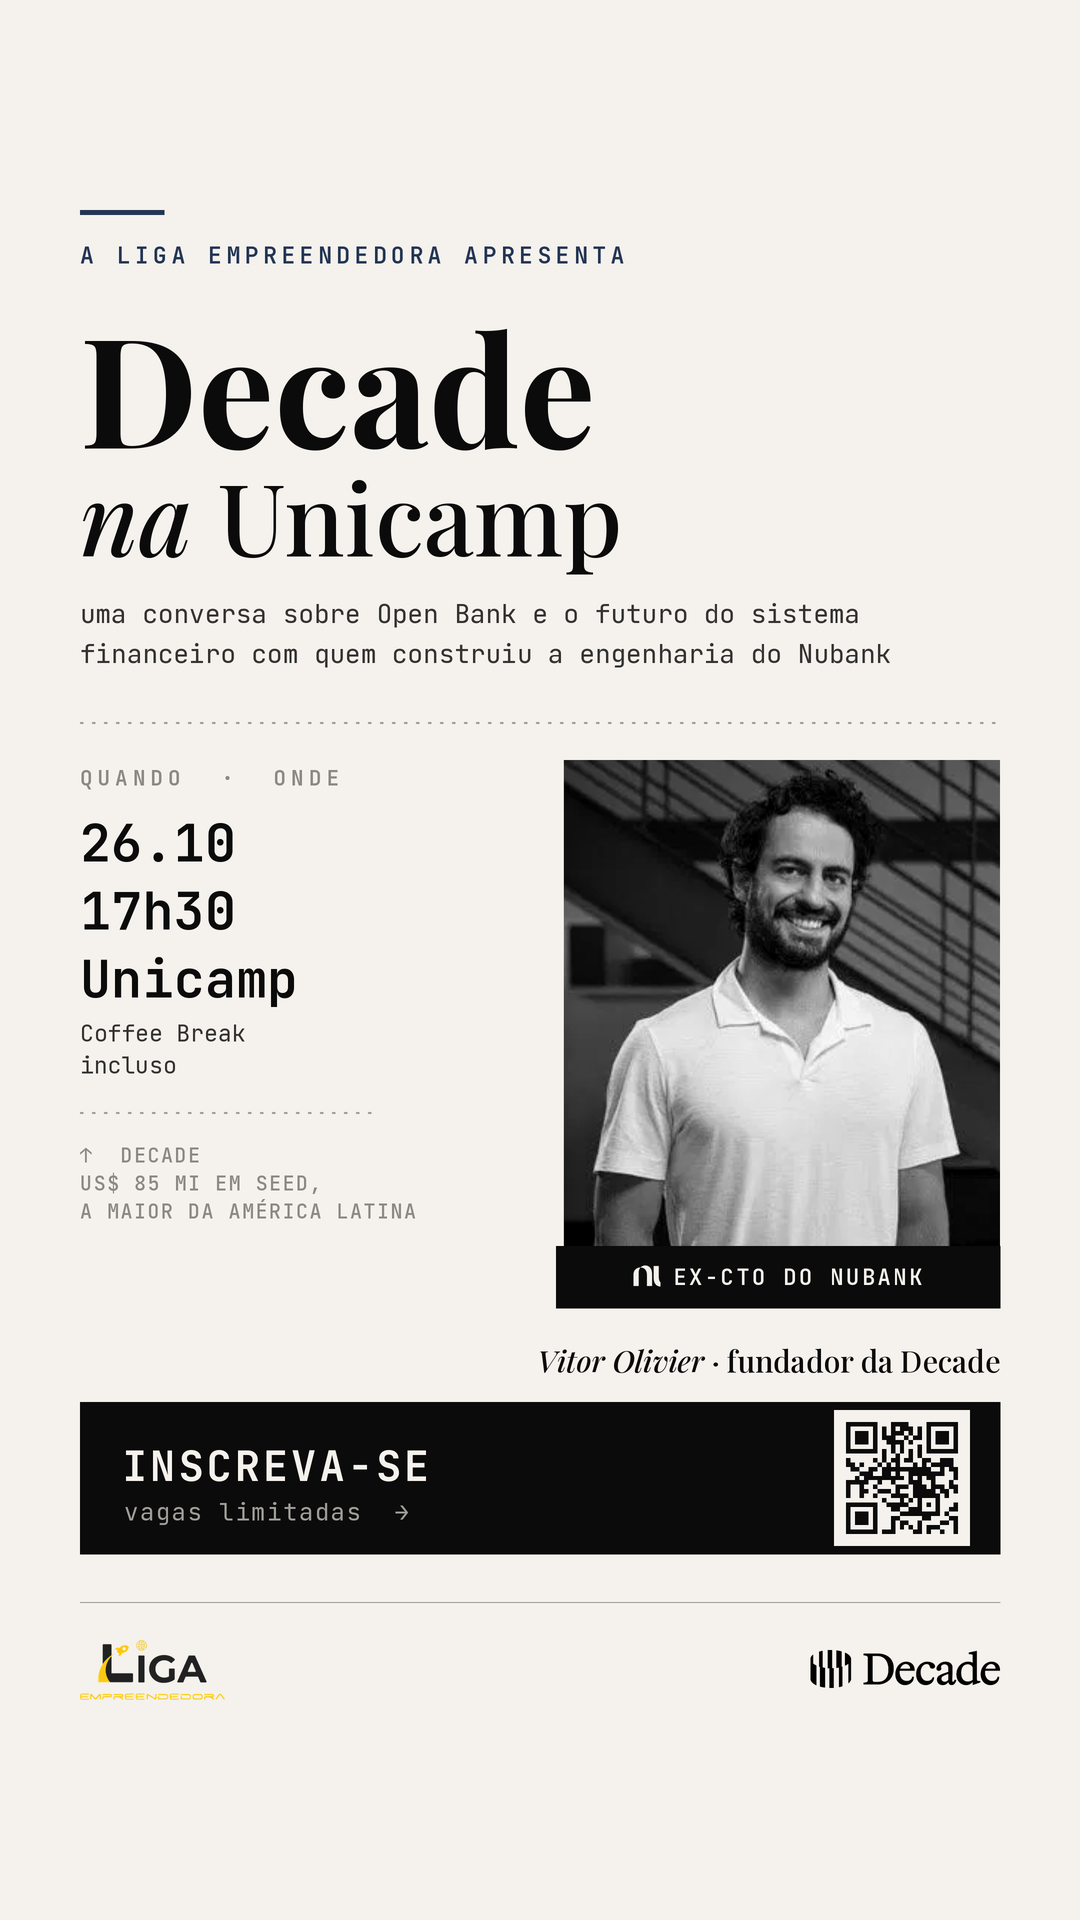
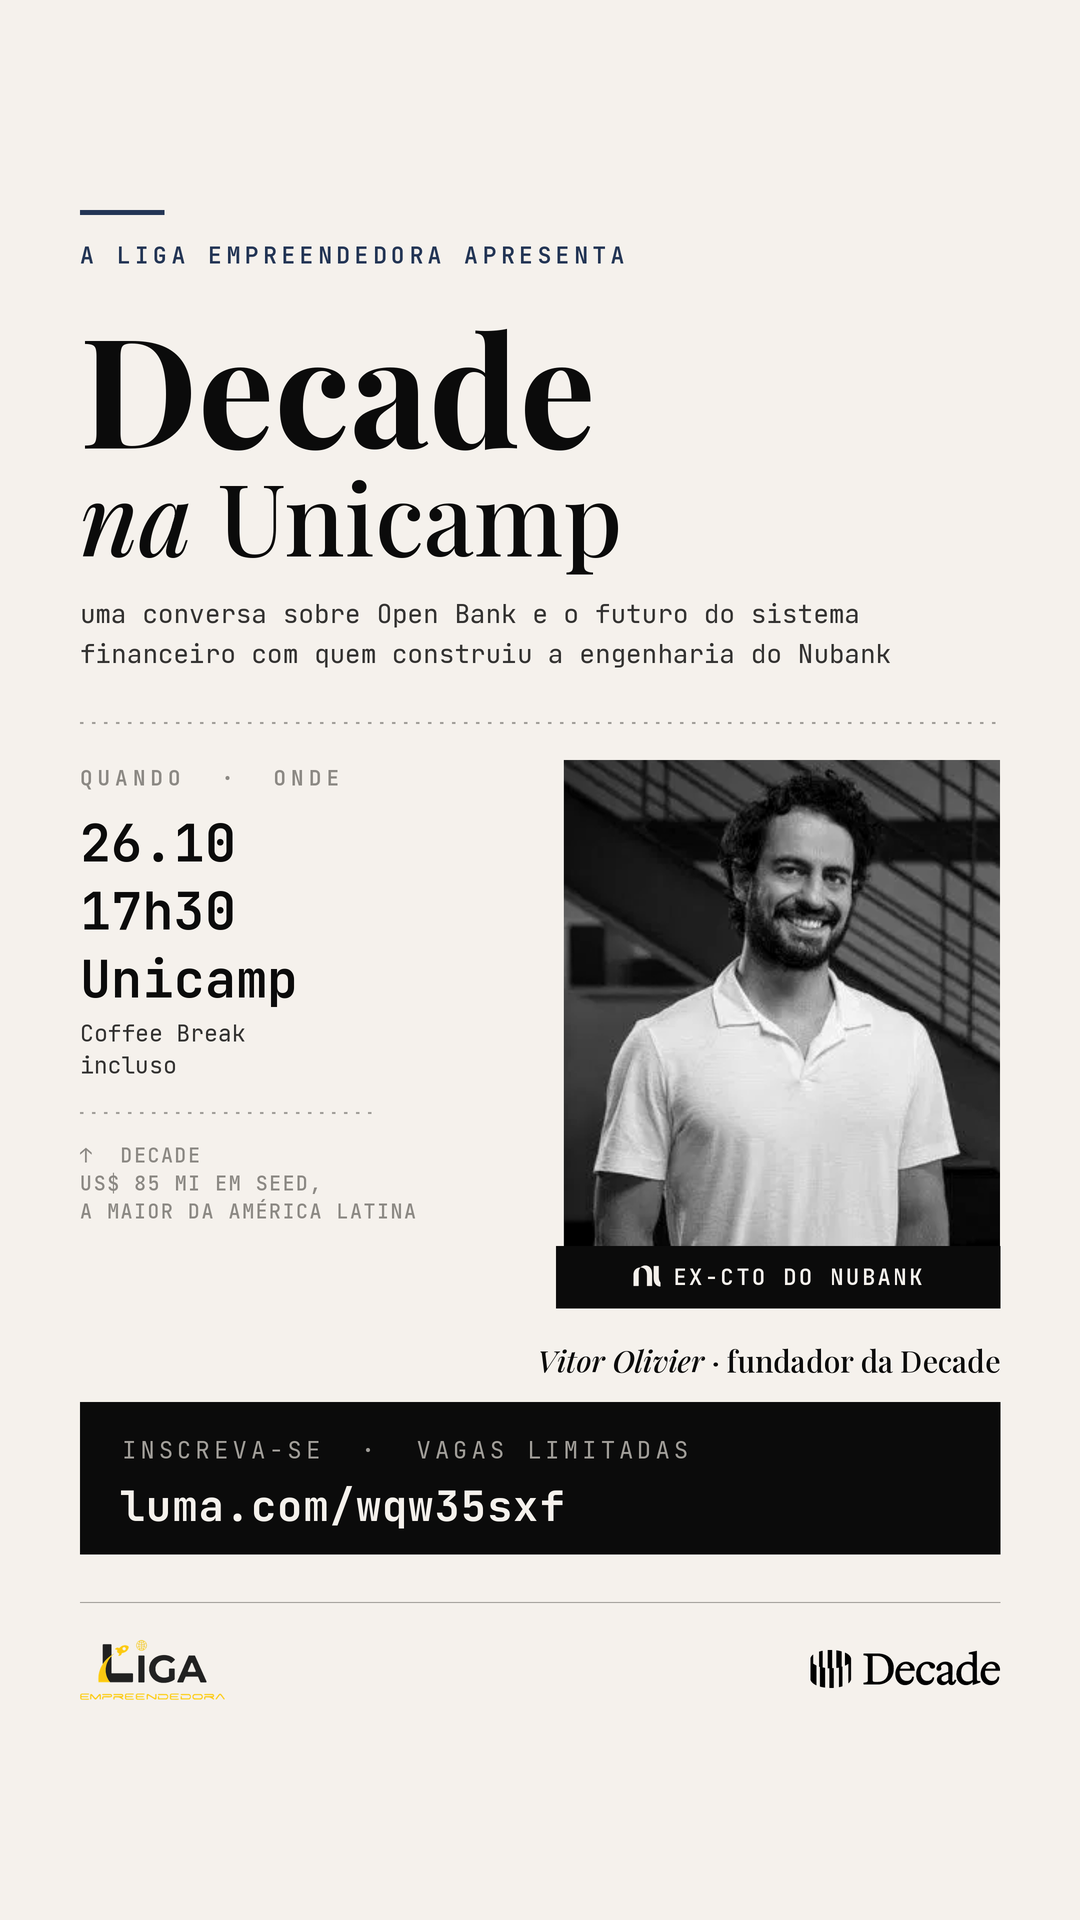
Troca o QR pelo link escrito no bloco de inscricao
O destino da inscricao agora aparece como texto, luma.com/wqw35sxf, em mono
pesado dentro do bloco escuro, com "INSCREVA-SE · VAGAS LIMITADAS" como rotulo
acima. Fica mais direto para quem ve o story e tira a dependencia da camera.

- remove o gerador de QR e a dependencia de qrcode
- link sem o esquema https para ficar mais limpo na leitura
- README orienta somar o sticker de link do Instagram sobre o bloco

Changed region(s): [[0.1222, 0.75, 0.55, 0.8125], [0.7639, 0.7188, 0.9167, 0.8125]]

diff --git a/decade-stories/gerar_story_decade_unicamp.py b/decade-stories/gerar_story_decade_unicamp.py
@@ -23,7 +23,6 @@ Saida:
 
 from pathlib import Path
 
-import qrcode
 from PIL import Image, ImageDraw, ImageFont
 
 BASE = Path(__file__).parent
@@ -34,7 +33,7 @@ ASSETS = BASE / "assets"
 W, H = 1080, 1920          # story vertical 9:16
 SC = 2                     # supersampling: renderiza em 2160x3840 e reduz
 M = 80                     # margem lateral
-LINK = "https://luma.com/wqw35sxf"
+LINK = "luma.com/wqw35sxf"  # destino da inscricao, sem o esquema para ficar limpo
 
 # ---------------------------------------------------------------- cores
 OFFWHITE = (245, 241, 236)
@@ -127,18 +126,6 @@ def paste_h(canvas, img, x, y, h, align="left", tint=None):
     xx = px(x) - ww if align == "right" else px(x)
     canvas.paste(im, (xx, px(y)), im if im.mode == "RGBA" else None)
     return ww / SC
-
-
-def qr_block(link, size, pad, fg=BLACK, bg=OFFWHITE):
-    q = qrcode.QRCode(error_correction=qrcode.constants.ERROR_CORRECT_M, box_size=16, border=0)
-    q.add_data(link)
-    q.make(fit=True)
-    code = q.make_image(fill_color="black", back_color="white").convert("L")
-    code = code.resize((px(size), px(size)), Image.NEAREST)
-    frame = Image.new("RGB", (px(size + 2 * pad), px(size + 2 * pad)), bg)
-    tile = Image.new("RGB", code.size, fg)
-    frame.paste(tile, (px(pad), px(pad)), Image.eval(code, lambda v: 255 - v))
-    return frame
 
 
 # ---------------------------------------------------------------- arte
@@ -241,15 +228,12 @@ def build(variant="offwhite"):
     d.text((cx, px(cap_y)), nome, font=f_cap_it, fill=ink)
     d.text((cx + wn, px(cap_y)), resto, font=f_cap, fill=ink)
 
-    # ---- CTA + QR
+    # ---- CTA, o proprio link e a chamada
     cta_y, cta_h = 1402, 152
     d.rectangle([px(M), px(cta_y), px(W - M), px(cta_y + cta_h)], fill=block_bg)
-    tracked(d, (M + 42, cta_y + 36), "INSCREVA-SE", f_cta, block_ink, tracking=3)
-    tracked(d, (M + 44, cta_y + 94), "vagas limitadas  →", f_cta2, block_soft, tracking=1.5)
-    qs, qpad = 112, 12
-    qr = qr_block(LINK, qs, qpad, fg=BLACK, bg=OFFWHITE)
-    canvas.paste(qr, (px(W - M - 30) - qr.width,
-                      px(cta_y + (cta_h - qs - 2 * qpad) / 2)))
+    tracked(d, (M + 42, cta_y + 32), "INSCREVA-SE  ·  VAGAS LIMITADAS",
+            f_cta2, block_soft, tracking=4)
+    tracked(d, (M + 40, cta_y + 76), LINK, f_cta, block_ink, tracking=1)
 
     # ---- rodape: lockup dos dois logos
     foot = cta_y + cta_h + 48

diff --git a/decade-stories/README.md b/decade-stories/README.md
@@ -15,9 +15,7 @@ a mesma linguagem dos panfletos `panfleto6.png` / `panfelto7.png`.
 | `assets/` | retrato, wordmark "nu" e logos recortados do panfleto oficial |
 | `fonts/` | Playfair Display, JetBrains Mono, Montserrat e Anton (Google Fonts, licença OFL inclusa) |
 
-Para regerar, rode `python gerar_story_decade_unicamp.py` com Pillow, numpy e qrcode
-instalados. O QR é gerado na hora a partir do link, então não há perda de qualidade em
-nenhum tamanho.
+Para regerar, rode `python gerar_story_decade_unicamp.py` com Pillow e numpy instalados.
 
 ## Texto da peça
 
@@ -28,7 +26,7 @@ nenhum tamanho.
 - Dados, `26.10 · 17h30 · Unicamp`, com Coffee Break incluso
 - Credencial em mono, `↑ DECADE · US$ 85 MI EM SEED, A MAIOR DA AMÉRICA LATINA`
 - Convidado, `Vitor Olivier · fundador da Decade`, com o selo `nu EX-CTO DO NUBANK` sobre o retrato
-- CTA, `INSCREVA-SE · vagas limitadas` com QR para https://luma.com/wqw35sxf
+- CTA, `INSCREVA-SE · VAGAS LIMITADAS` com o link `luma.com/wqw35sxf` em destaque
 
 Quem lidera a leitura é a Decade, que é o nome de peso do evento. Open Bank entra como tema
 na linha de apoio, e a autoria da Liga aparece no chapéu e no lockup do rodapé.
@@ -50,11 +48,14 @@ conversa com as outras peças da campanha sem retrabalho de arquivo.
 ## Área segura do Instagram
 
 Todo o conteúdo vive entre `y=210` e `y=1702`. O topo fica livre para o avatar e o botão de
-fechar, e a base deixa espaço para a barra de resposta. Dá para colar o sticker de link em
-cima do bloco `INSCREVA-SE`.
+fechar, e a base deixa espaço para a barra de resposta.
+
+O link aparece escrito no bloco escuro, então quem vê o story consegue digitar. Vale somar
+o sticker de link do Instagram em cima do bloco para deixar o clique direto, já que texto
+escrito na imagem não é clicável.
 
 ## Legenda sugerida para repost no feed
 
 > A gente trouxe a Decade pra Unicamp. Dia 26.10, às 17h30, conversa com Vitor Olivier,
 > ex-CTO do Nubank e fundador da Decade, sobre Open Bank e a engenharia que sustenta uma
-> fintech desse tamanho. Vagas limitadas, link no QR e na bio.
+> fintech desse tamanho. Vagas limitadas, inscrição em luma.com/wqw35sxf.
